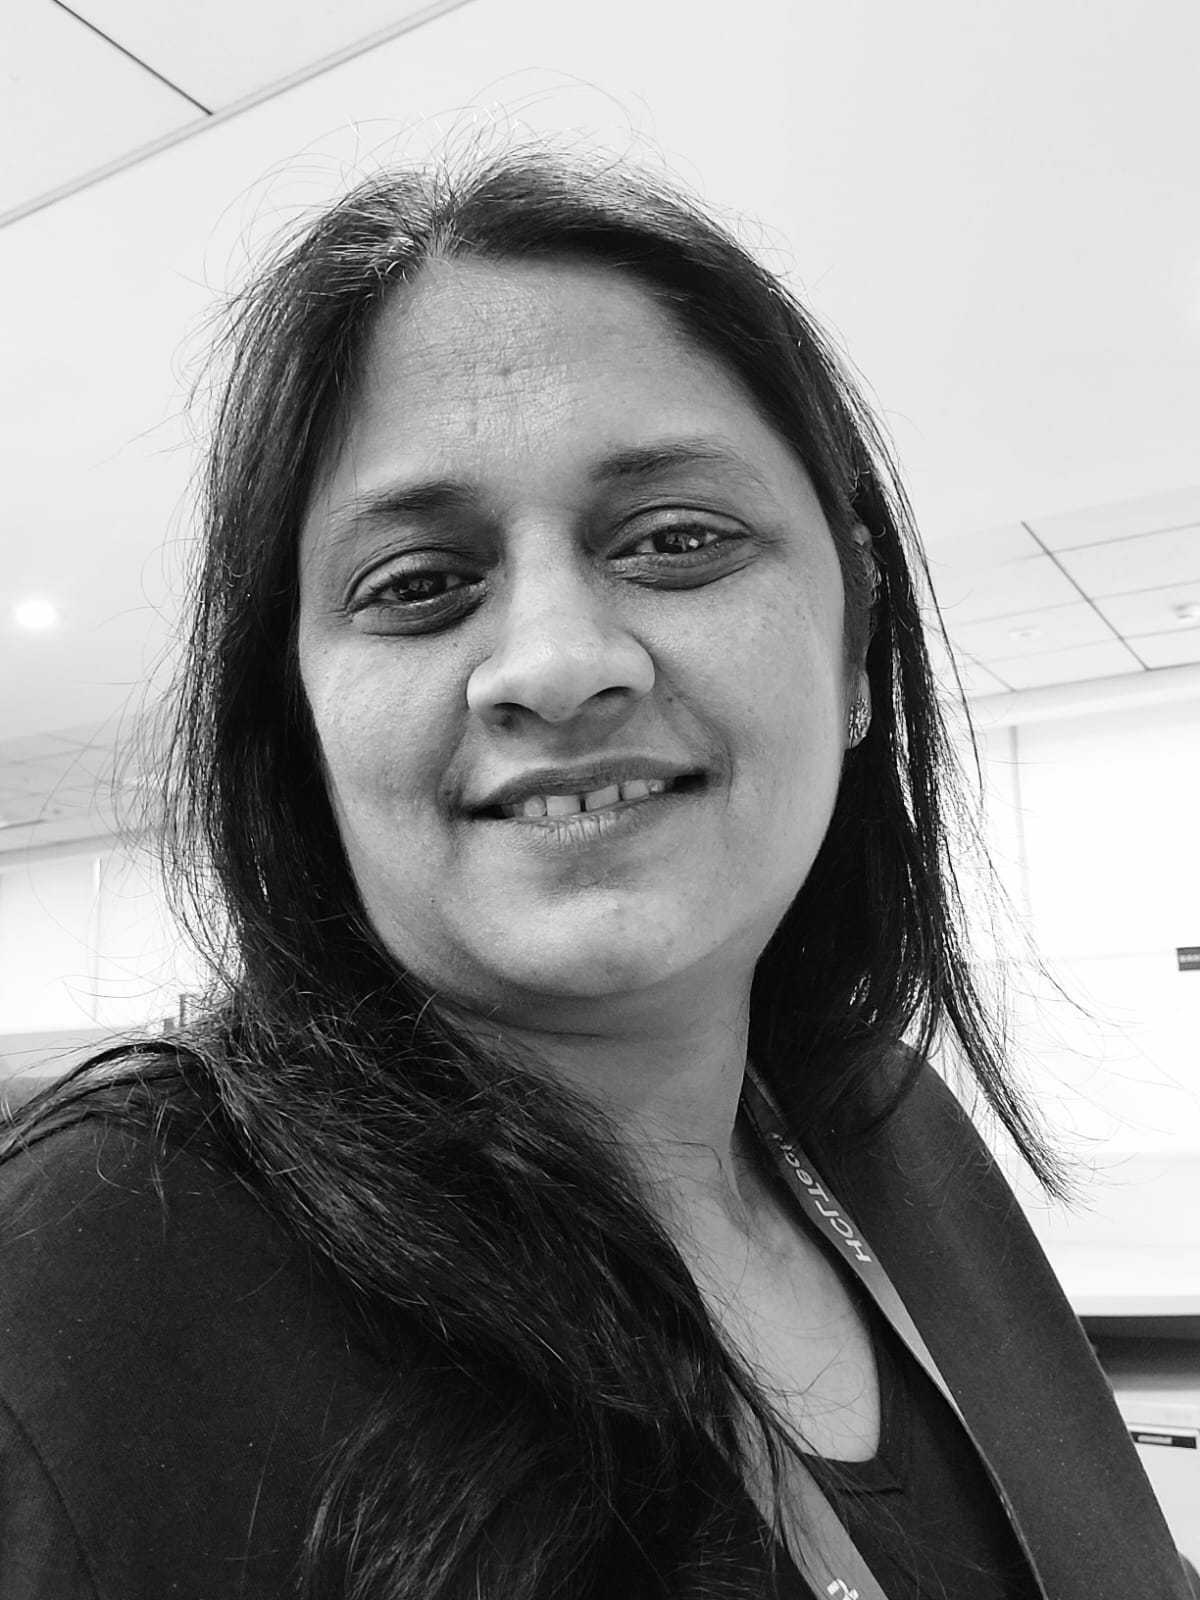
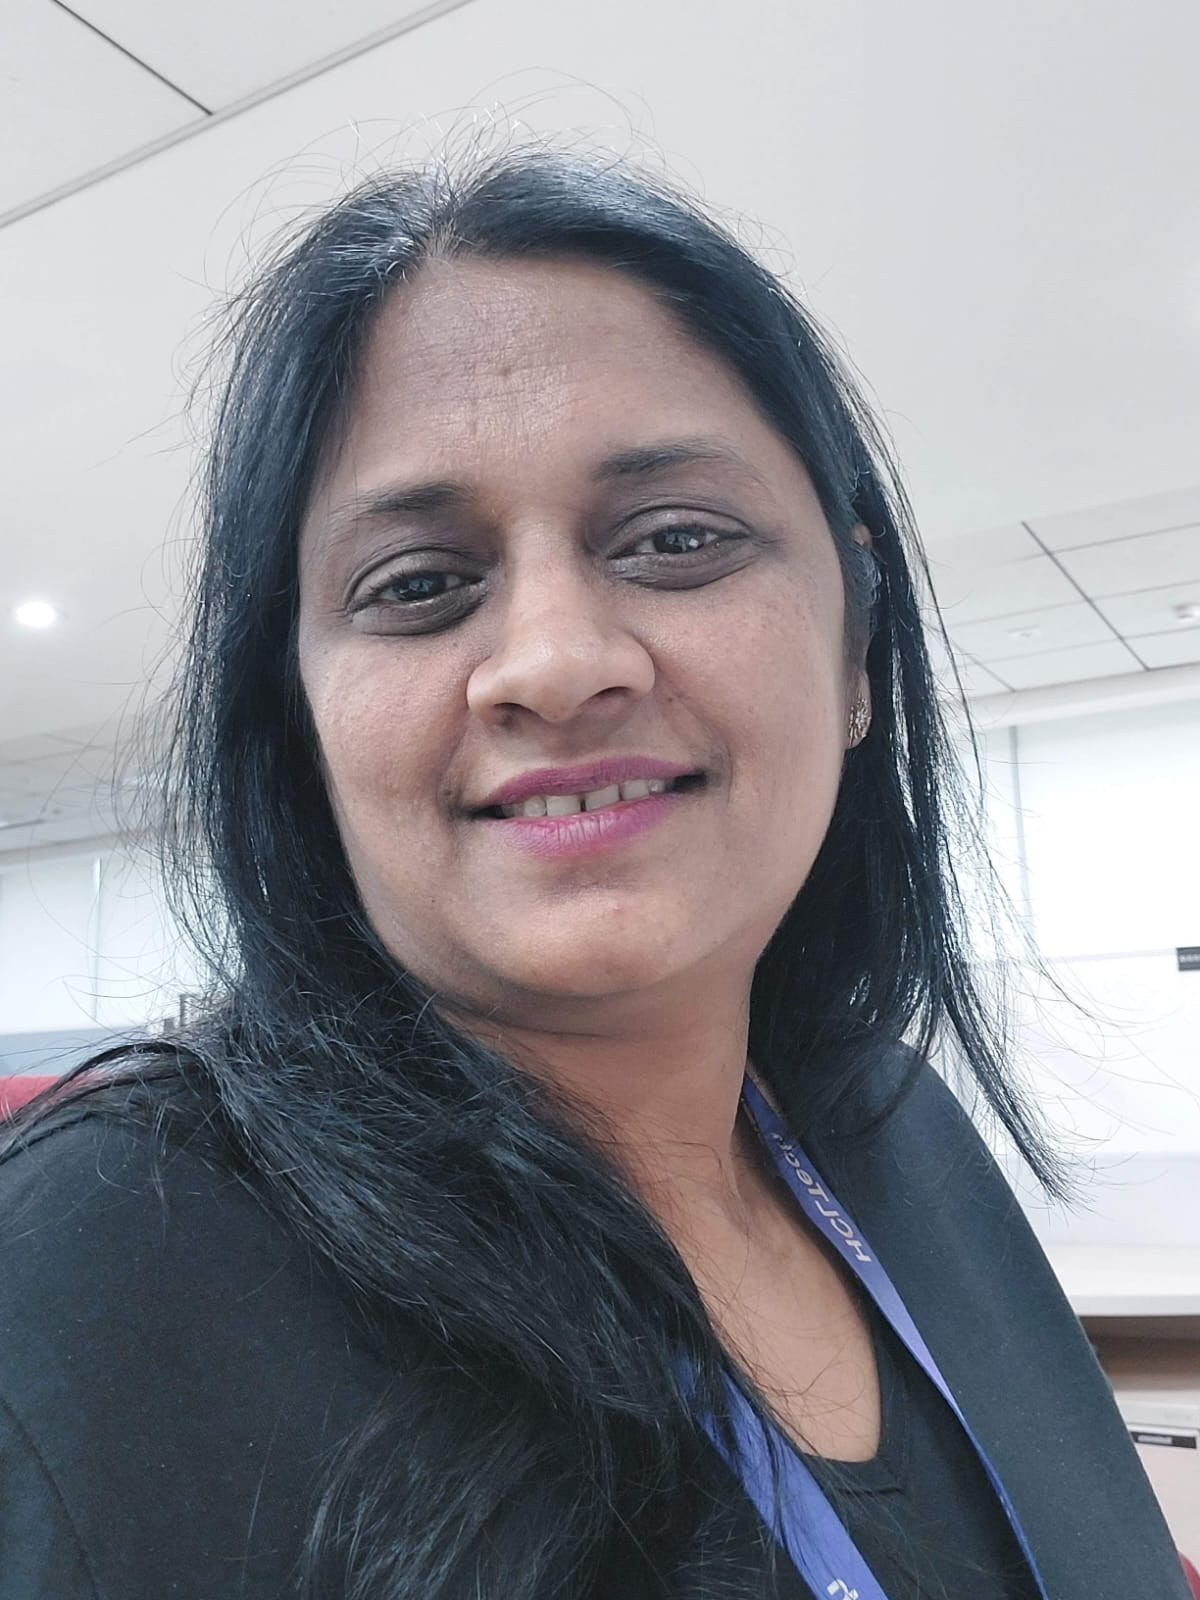
Update Leena Chandra profile in About page
- Changed "Program Management Lead" color to blue
- Updated description from "Formerly with HCL Technology" to "Currently with HCL Technology"

diff --git a/about.html b/about.html
@@ -129,8 +129,8 @@
                     </div>
                     <div class="card-content">
                         <h3 class="card-title">Leena Chandra</h3>
-                        <p style="color: #f5576c; font-weight: 600; margin-bottom: 0.5rem;">Program Management Lead</p>
-                        <p class="card-description">20+ years of Program Management experience with deep expertise in Java technologies. Formerly with HCL Technology.</p>
+                        <p style="color: #667eea; font-weight: 600; margin-bottom: 0.5rem;">Program Management Lead</p>
+                        <p class="card-description">20+ years of Program Management experience with deep expertise in Java technologies. Currently with HCL Technology.</p>
                         <ul class="card-skills">
                             <li>Program Management</li>
                             <li>Java Technologies</li>